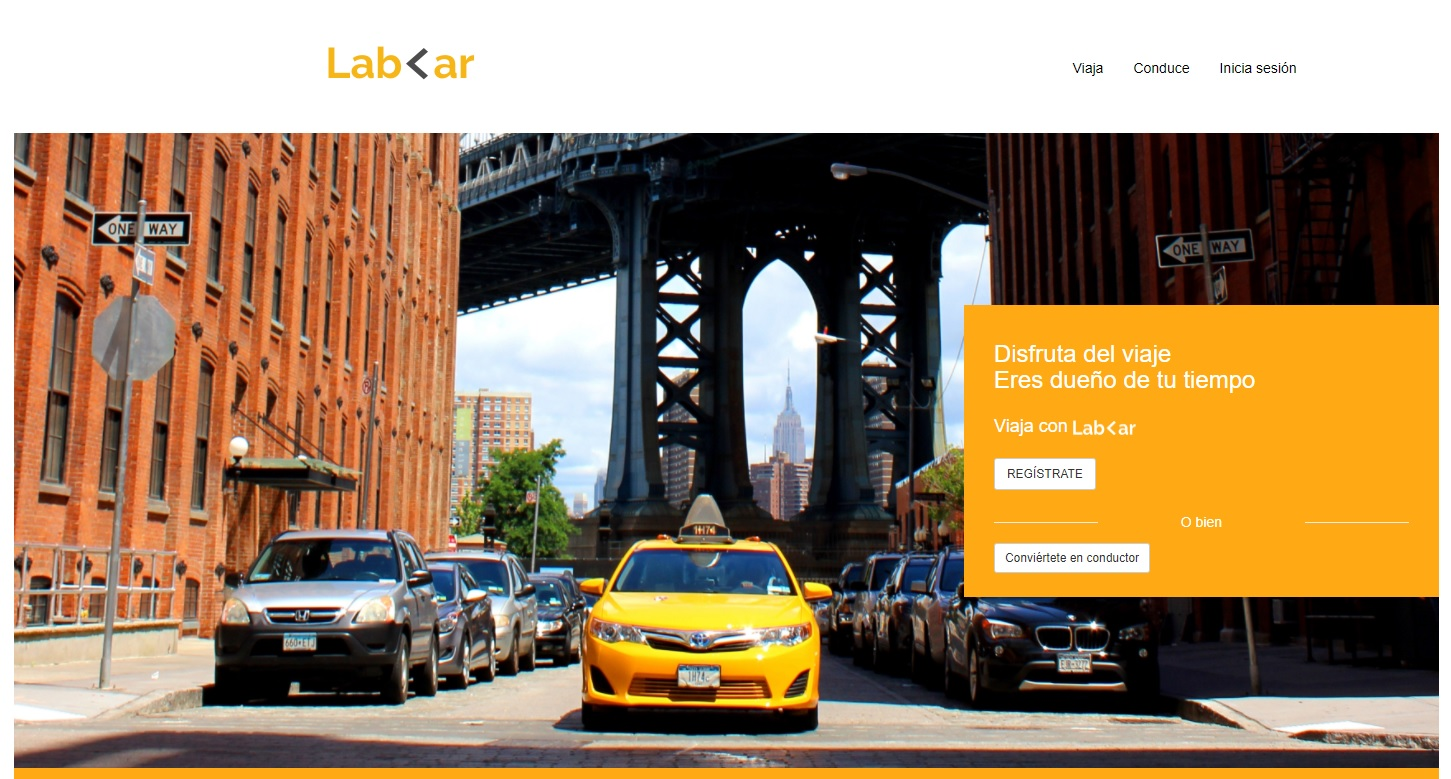
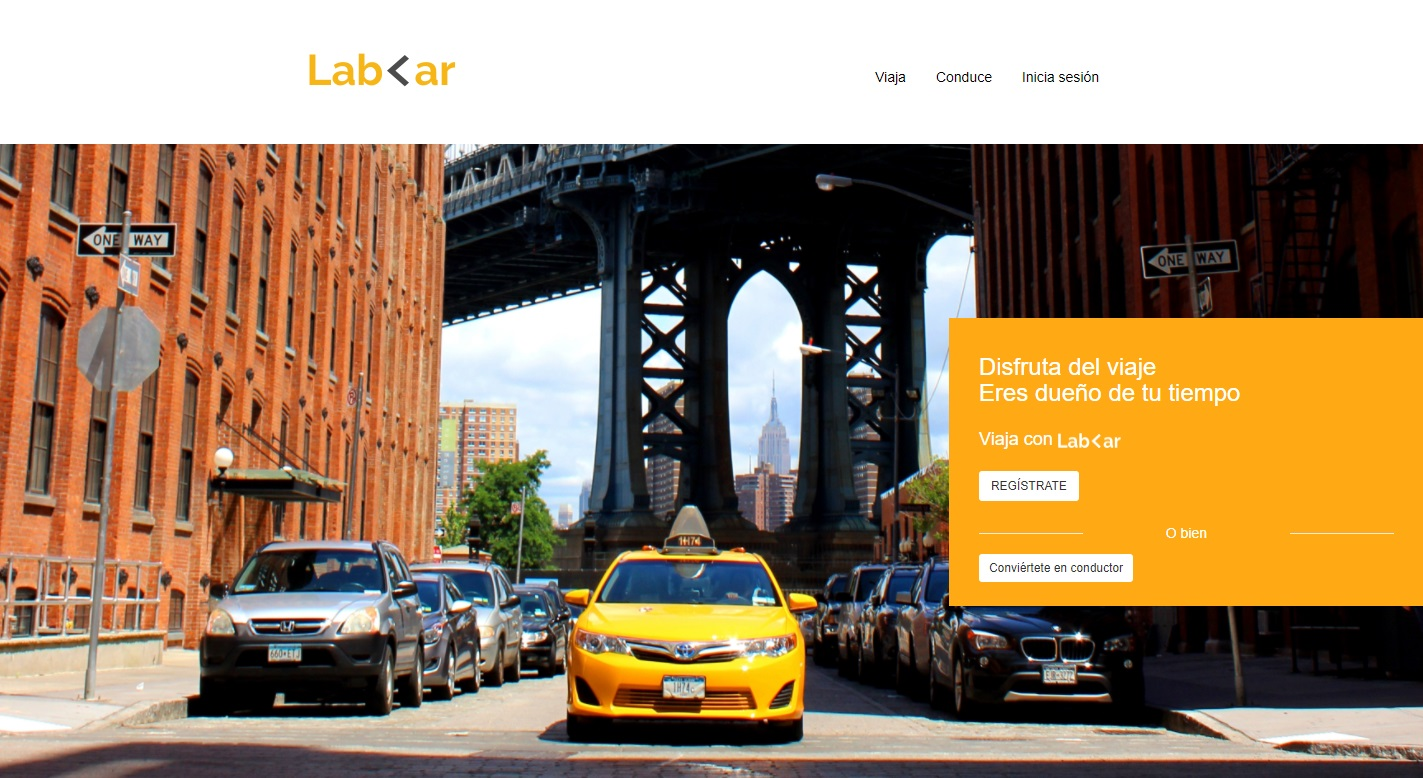
Reestructura del archivo readme

diff --git a/index.html b/index.html
@@ -16,7 +16,7 @@
   <!--Sección menú de navegación -->
   <nav>
     <div class="display-flex-row mg-top-3em">
-      <div class="row">
+      <div class="row row-nav">
         <!-- El menu hamburguesa en el modelo responsive-->
         <div class="navbar-header display-flex-row  colx-xs-12">
           <button type="button" class="navbar-toggle pull-left" data-toggle="collapse" data-target=".navbar-ex1-collapse">
@@ -340,24 +340,24 @@
           <div class="container col-xs-12 col-lg-12">
             <div class="row footer-menu">
               <div class="hidden-xs col-lg-3 icons-lg">
-                <ul class="list-inline">
-                  <li><i class="fa fa-facebook" aria-hidden="true"></i></li>
-                  <li><i class="fa fa-twitter" aria-hidden="true"></i></li>
-                  <li><i class="fa fa-linkedin" aria-hidden="true"></i></li>
-                  <li><i class="fa fa-apple" aria-hidden="true"></i></li>
-                  <li><i class="fa fa-play" aria-hidden="true"></i></li>
+                <ul class="list-inline list-hover">
+                  <li><i class="fa fa-facebook li-hover" aria-hidden="true"></i></li>
+                  <li><i class="fa fa-twitter li-hover" aria-hidden="true"></i></li>
+                  <li><i class="fa fa-linkedin li-hover" aria-hidden="true"></i></li>
+                  <li><i class="fa fa-apple li-hover" aria-hidden="true"></i></li>
+                  <li><i class="fa fa-play li-hover" aria-hidden="true"></i></li>
                 </ul>
               </div>
               <div class="footer-list col-xs-3 col-lg-3">
-                <ul class="list-unstyled">
-                  <li>Viaja</li>
-                  <li>Conduce</li>
-                  <li>Ciudades</li>
-                  <li>Ciudades</li>
-                  <li>Entregas</li>
-                  <li>¿Cómo funciona?</li>
-                  <li>Países</li>
-                  <li>Seguridad</li>
+                <ul class="list-unstyled list-hover">
+                  <li class= "li-hover">Viaja</li>
+                  <li class= "li-hover">Conduce</li>
+                  <li class= "li-hover">Ciudades</li>
+                  <li class= "li-hover">Distritos</li>
+                  <li class= "li-hover">Entregas</li>
+                  <li class= "li-hover">¿Cómo funciona?</li>
+                  <li class= "li-hover">Países</li>
+                  <li class= "li-hover">Seguridad</li>
                 </ul>
               </div>
 
@@ -365,14 +365,14 @@
               <div class="row footer-menu2 hidden-xs">
                 <div class="footer-list2">
                   <ul class="list-unstyled">
-                    <li>Oportunidades</li>
-                    <li>Nuestra historia</li>
-                    <li>API de LabCar</li>
-                    <li>Eventos</li>
-                    <li>Desarrolladores</li>
-                    <li>Servicios</li>
-                    <li>Laboratoria</li>
-                    <li>Coders</li>
+                    <li class= "li-hover">Oportunidades</li>
+                    <li class= "li-hover">Nuestra historia</li>
+                    <li class= "li-hover">API de LabCar</li>
+                    <li class= "li-hover">Eventos</li>
+                    <li class= "li-hover">Desarrolladores</li>
+                    <li class= "li-hover">Servicios</li>
+                    <li class= "li-hover">Laboratoria</li>
+                    <li class= "li-hover">Coders</li>
                   </ul>
                 </div>
               </div>        

diff --git a/css/main.css b/css/main.css
@@ -37,6 +37,12 @@
     color: #fff;
 }
 
+.btn {
+    border: none;
+    background-color: #fff;
+}
+
+
 /*Sección menú */
 
 /*Estilo del menu hamburguesa*/
@@ -57,7 +63,7 @@
 
 .navbar-right li a {
     color: #000;
-    font-size: 1.5em;
+    font-size: 1em;
 }
 
 
@@ -218,6 +224,11 @@ figure.driver-image {
     margin-bottom: 2em;
 }
 
+.li-hover:hover {
+    color:#ffa914;
+    cursor: pointer;
+}
+
  /*MODALES*/
 
     /*Modal de iniciar sesión */
@@ -274,8 +285,10 @@ figure.driver-image {
 /* Media query para dektop */
 @media screen and (min-width: 769px) {
    
-    .row {
+    .row-nav {
         display: flex;
+        width: 100%;
+        justify-content: space-between;
     }
 
     /*Estilo de la imagen en desktop*/

diff --git a/README.md b/README.md
@@ -1,10 +1,14 @@
-# Proyecto: Lab Car
+# LabCar
 
-![LabCar](assets/images/layout.jpg)
+Aplicación de servicio de taxi por dispositivos móbiles.
+Maquetación de un layout responsive mediante el uso del framework Bootstrap.
 
-![LabCarMobile](assets/images/layout2.jpg)
+![LabCar](https://user-images.githubusercontent.com/32287220/36371614-a6e84178-1530-11e8-922d-cd931e67fe2c.jpg)
 
-![LabCarModal](assets/images/modal.jpg)
+## Desarrollado para 
+
+[Laboratoria](http://laboratoria.la)
+
 
 ## Descripción del Proyecto.
 
@@ -43,5 +47,3 @@ Además por medio de JQuery se han desarrollado la funcionalidad de algunos boto
 2. CSS3
 
 3. Bootstrap
-
-4. jQuery
